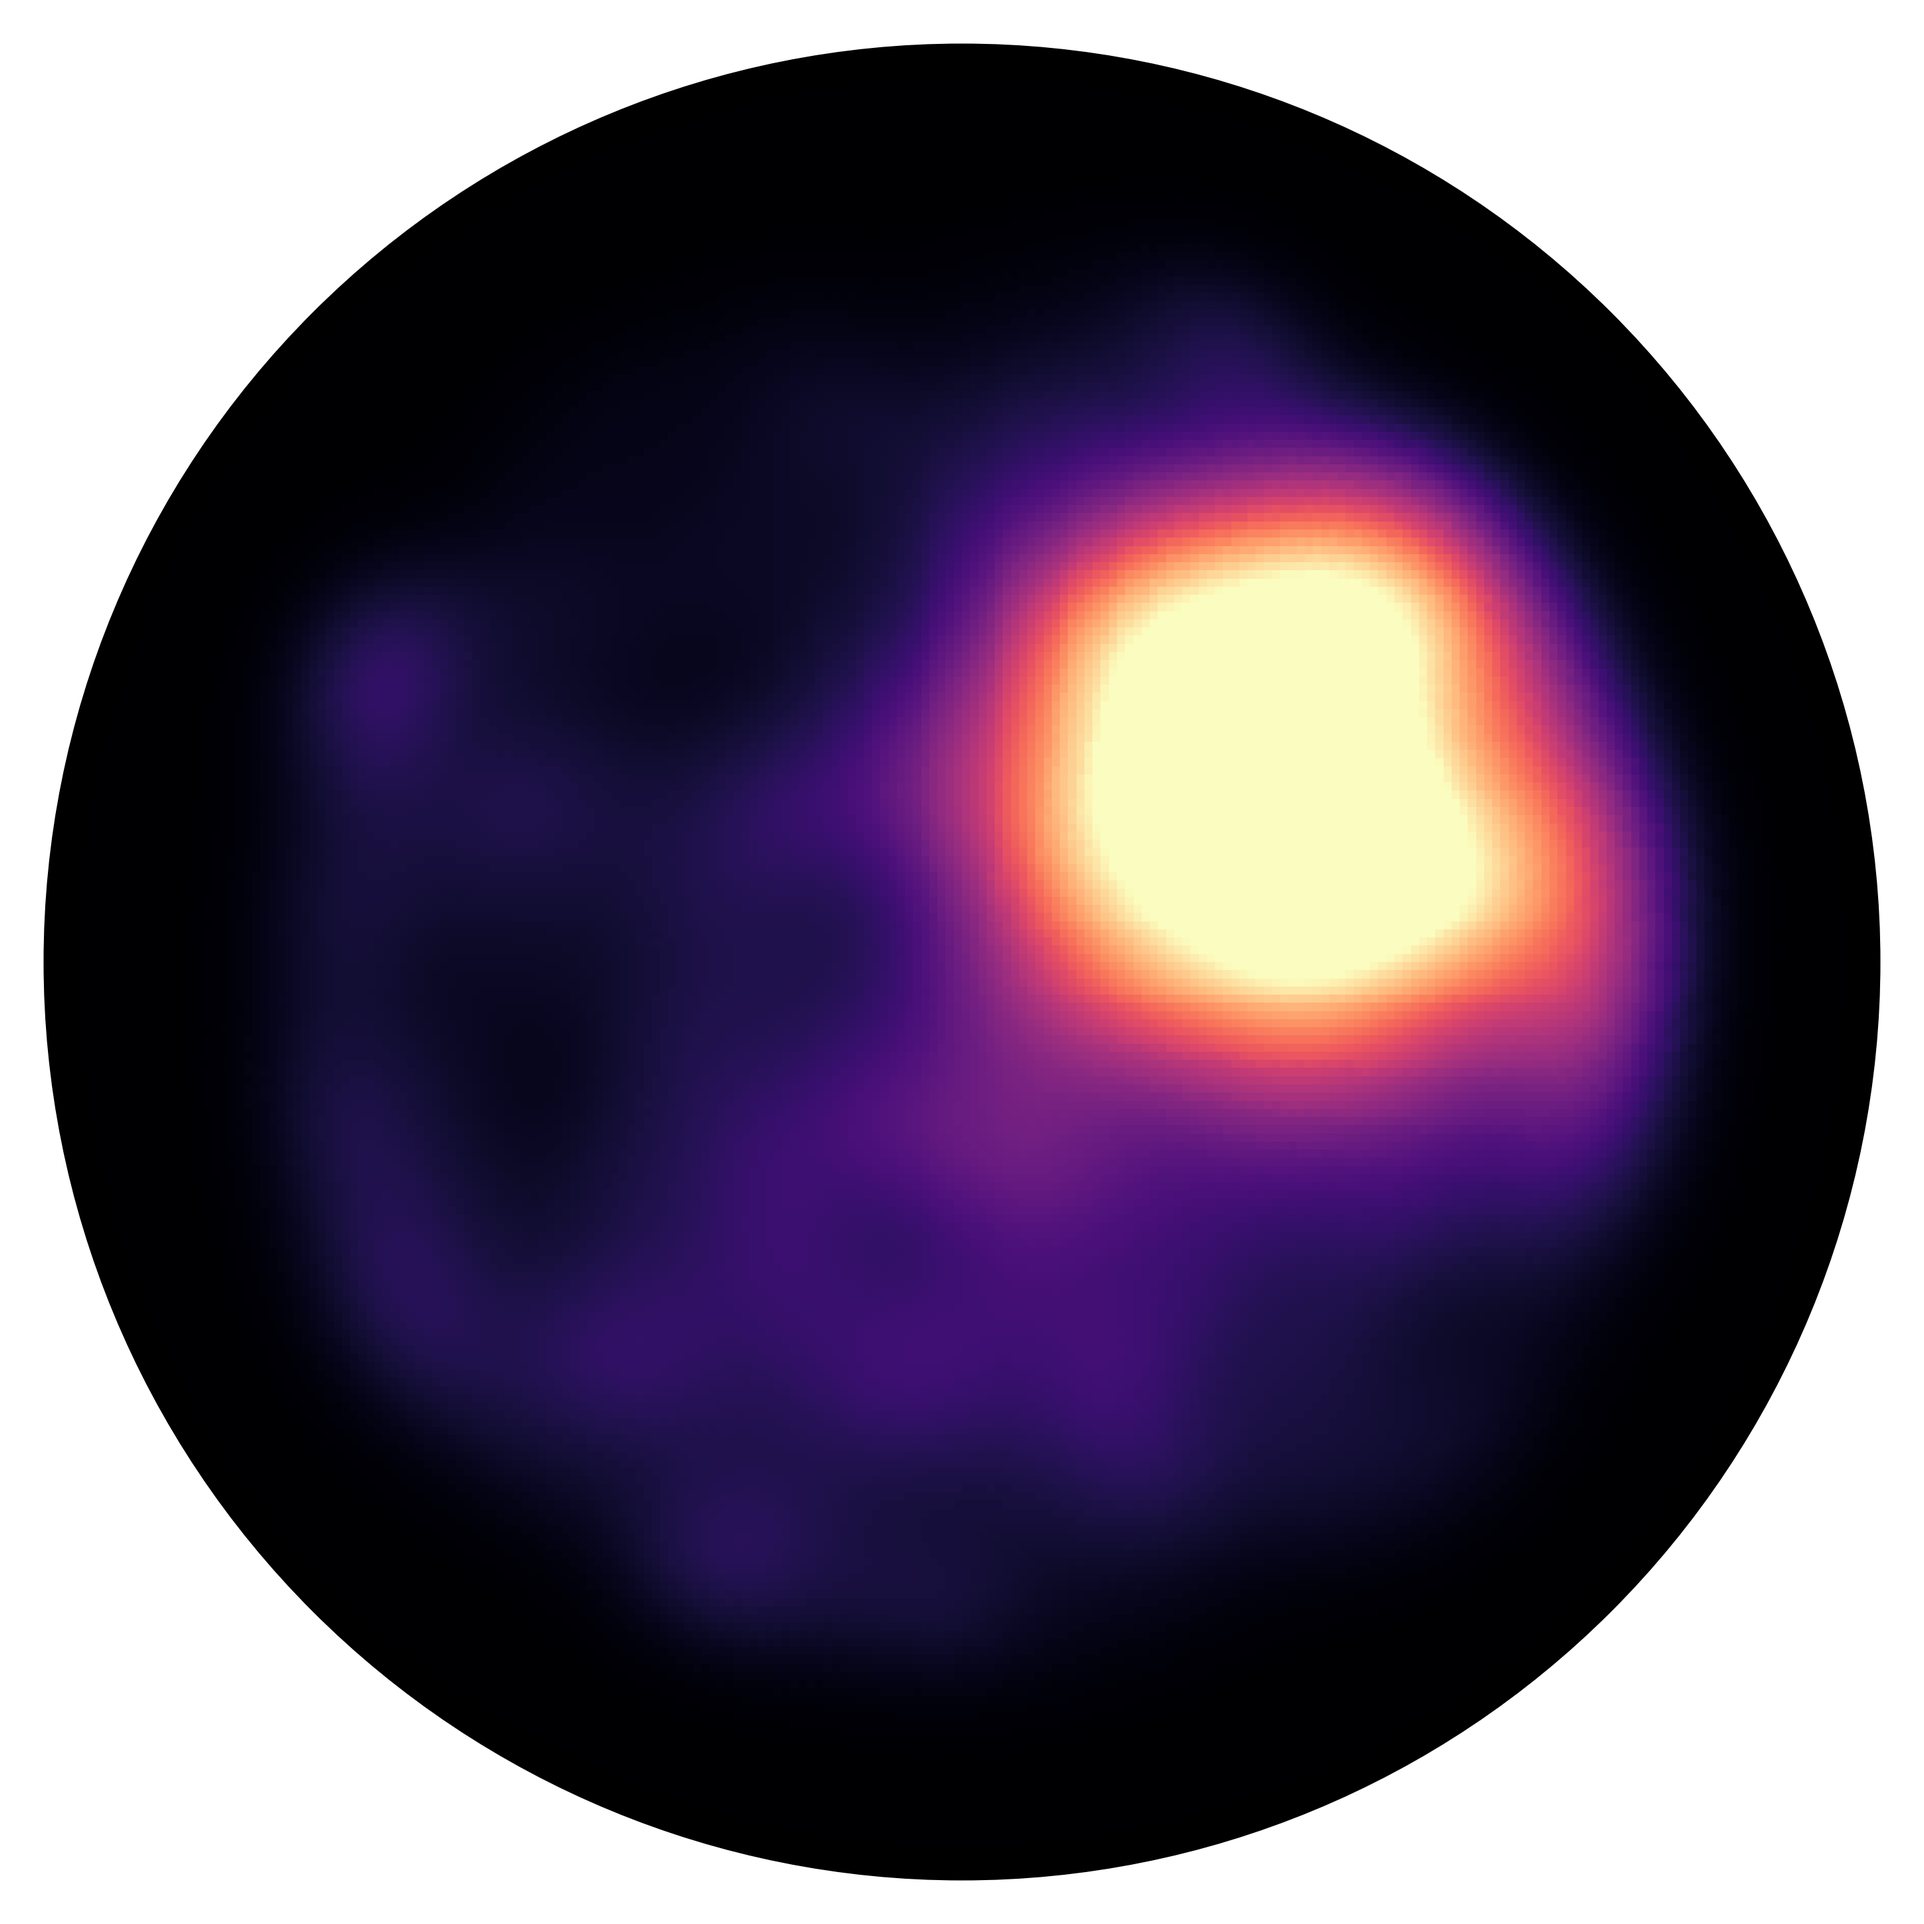
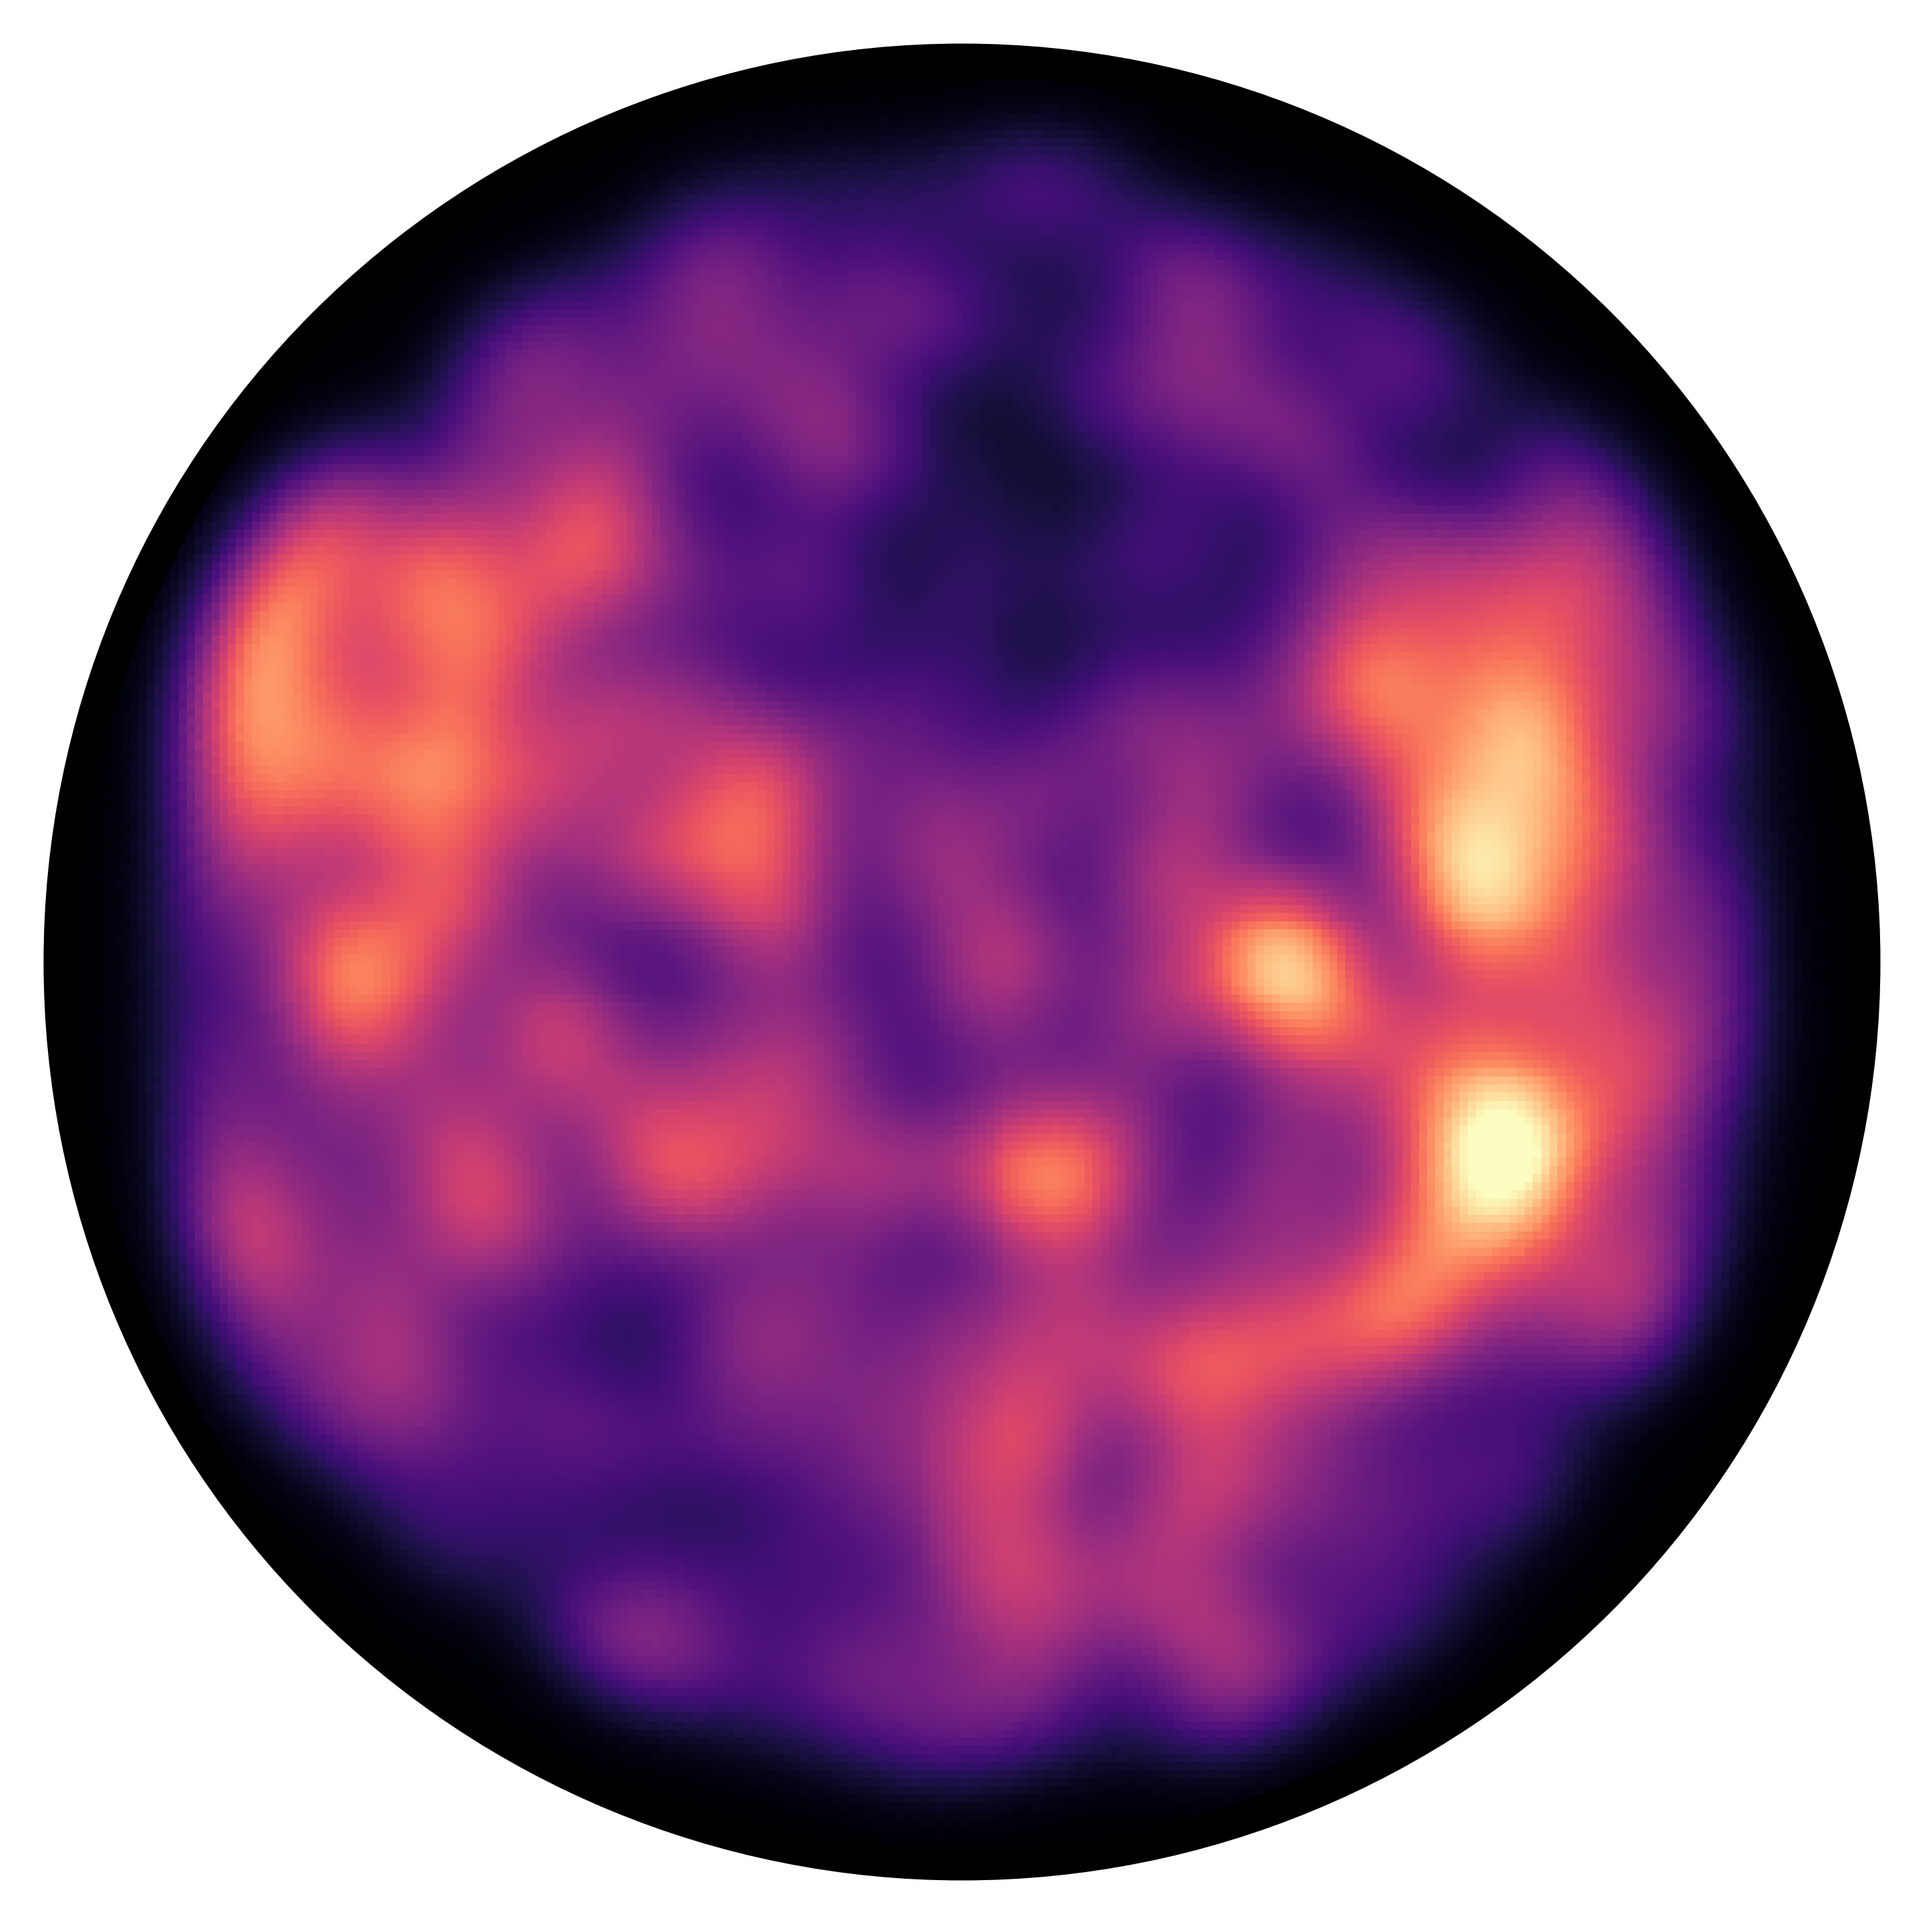
Updated scripts to make spherical projection plots

diff --git a/src/build_yx1/make_field_plots_v2.py b/src/build_yx1/make_field_plots_v2.py
@@ -18,6 +18,8 @@ from typing import Union
 from tqdm import tqdm
 from scipy.ndimage import gaussian_filter1d
 from scipy.interpolate import interp1d
+from functools import partial
+from tqdm.contrib.concurrent import process_map
 
 # ==============================================================
 #  Low-level geometry + raster helpers
@@ -115,7 +117,7 @@ def plot_healpix_equalarea_from_frame(
     cmap="viridis",
     vmin=None,
     vmax=None,
-    pct=(1, 99),
+    pct=(1, 99.8),
     smooth_fwhm_deg=None,
     fov_deg=90.0,
     rescale_to_fill=False,
@@ -142,7 +144,7 @@ def plot_healpix_equalarea_from_frame(
     img = _raster_mean(frame, ix, iy, mask_in, bins, disk_mask)
 
     # color limits
-    if vmin is None or vmax is None:
+    if  vmin is None or vmax is None:
         finite_vals = frame[np.isfinite(frame)]
         if finite_vals.size > 0:
             lo, hi = np.percentile(finite_vals, pct)
@@ -213,7 +215,65 @@ def get_intensity_bounds_from_last_frame(zarr_path, channel=0,
     lo, hi = np.percentile(finite_vals, pct)
     return lo, hi
 
+def make_well_plots(well,
+                    project_name,
+                    field_list,
+                    out_root,
+                    values_key,
+                    dt_hours,
+                    target_dt_hours,
+                    temporal_sigma_hours,
+                    interp_kind,
+                    dpi,
+                    plot_kwargs,
+                    overwrite,
+                    channel):
 
+    zarr_path = [m for m in field_list if int(re.search(r"well(\d+)", str(m)).group(1)) == well][0]
+    zarr_path = Path(zarr_path)
+    out_path = out_root / f"{project_name}_well{well:04}_{values_key}"
+    out_path.mkdir(parents=True, exist_ok=True)
+
+    series_TN = _load_time_series_1ch(zarr_path, values_key=values_key, channel=channel)
+
+    if values_key == "density":
+        N = series_TN.shape[1];
+        A = 4 * np.pi * 600 ** 2;
+        a = A / N
+        series_TN = series_TN / a
+
+    if dt_hours is None:
+        raise ValueError("Please supply dt_hours for temporal smoothing/interpolation.")
+    series_out, t_out = temporal_smooth_and_resample(
+        series_TN, dt_hours=dt_hours,
+        target_dt_hours=target_dt_hours,
+        temporal_sigma_hours=temporal_sigma_hours,
+        kind=interp_kind,
+    )
+
+    if False: #scale_from_smoothed:
+        vmin = vmax = None
+    else:
+        vmin, vmax = get_intensity_bounds_from_last_frame(
+            zarr_path, channel,
+            smooth_fwhm_deg=plot_kwargs.get("smooth_fwhm_deg"),
+            values_key=values_key, pct=(1, 99.8)
+        )
+        vmax = 0.875 * vmax
+
+    print(f"Rendering {series_out.shape[0]} frames for well {well:04d} ...")
+    for t_idx in range(series_out.shape[0]):
+        frame_file = out_path / f"{zarr_path.stem}_frame{t_idx:04d}.png"
+        if not frame_file.exists() or overwrite:
+            plot_healpix_equalarea_from_frame(
+                series_out[t_idx],
+                save_path=frame_file,
+                vmin=vmin,
+                vmax=vmax,
+                **plot_kwargs,
+                dpi=dpi,
+            )
+    print(f"✅ Saved {series_out.shape[0]} frames to {out_path}")
 # ==============================================================
 #  Main driver
 # ==============================================================
@@ -224,9 +284,7 @@ def healpix_to_mp4_v2(
     wells=None,
     values_key="max",
     channel=0,
-    fps=12,
     nside=64,
-    mode="png",
     overwrite=False,
     plot_kwargs=None,
     dpi=600,
@@ -235,7 +293,7 @@ def healpix_to_mp4_v2(
     target_dt_hours=None,
     temporal_sigma_hours=None,
     interp_kind="linear",
-    scale_from_smoothed=False,
+    n_jobs=1,
 ):
     """
     Render Healpix zarr time series with temporal smoothing/interpolation.
@@ -250,50 +308,32 @@ def healpix_to_mp4_v2(
     if wells is None:
         wells = [int(re.search(r"well(\d+)", str(s)).group(1)) for s in field_list]
 
-    for well in tqdm(wells, desc="Rendering wells"):
-        zarr_path = [m for m in field_list if int(re.search(r"well(\d+)", str(m)).group(1)) == well][0]
-        zarr_path = Path(zarr_path)
-        out_path = out_root / f"{project_name}_well{well:04}_{values_key}"
-        out_path.mkdir(parents=True, exist_ok=True)
+    plot_well = partial(make_well_plots,
+                        project_name=project_name,
+                        field_list=field_list,
+                        out_root=out_root,
+                        values_key=values_key,
+                        dt_hours=dt_hours,
+                        target_dt_hours=target_dt_hours,
+                        temporal_sigma_hours=temporal_sigma_hours,
+                        interp_kind=interp_kind,
+                        dpi=dpi,
+                        plot_kwargs=plot_kwargs,
+                        overwrite=overwrite,
+                        channel=channel)
 
-        series_TN = _load_time_series_1ch(zarr_path, values_key=values_key, channel=channel)
-
-        if values_key == "density":
-            N = series_TN.shape[1]; A = 4*np.pi*600**2; a = A/N
-            series_TN = series_TN / a
-
-        if dt_hours is None:
-            raise ValueError("Please supply dt_hours for temporal smoothing/interpolation.")
-        series_out, t_out = temporal_smooth_and_resample(
-            series_TN, dt_hours=dt_hours,
-            target_dt_hours=target_dt_hours,
-            temporal_sigma_hours=temporal_sigma_hours,
-            kind=interp_kind,
+    if n_jobs == 1:
+        _ = [plot_well(a) for a in tqdm(wells, desc="Calculating density fields")]
+    else:
+        _ = process_map(
+            plot_well,
+            wells,
+            max_workers=n_jobs,
+            chunksize=1,
+            desc="Calculating density fields",
         )
 
-        if scale_from_smoothed:
-            vmin = vmax = None
-        else:
-            vmin, vmax = get_intensity_bounds_from_last_frame(
-                zarr_path, channel,
-                smooth_fwhm_deg=plot_kwargs.get("smooth_fwhm_deg"),
-                values_key=values_key, pct=(1, 99.8)
-            )
-            vmax = 0.9 * vmax
 
-        print(f"Rendering {series_out.shape[0]} frames for well {well:04d} ...")
-        for t_idx in range(series_out.shape[0]):
-            frame_file = out_path / f"{zarr_path.stem}_frame{t_idx:04d}.png"
-            if not frame_file.exists() or overwrite:
-                plot_healpix_equalarea_from_frame(
-                    series_out[t_idx],
-                    save_path=frame_file,
-                    vmin=vmin, vmax=vmax,
-                    **plot_kwargs,
-                    dpi=dpi,
-                )
-        if mode == "png":
-            print(f"✅ Saved {series_out.shape[0]} frames to {out_path}")
 
 # ==============================================================
 #  Usage example

diff --git a/results/20251003/test_plots.py b/results/20251003/test_plots.py
@@ -6,23 +6,23 @@ from pathlib import Path
 import matplotlib
 matplotlib.use("TkAgg")   # or "TkAgg" if Qt isn't installed
 import matplotlib.pyplot as plt
-from src.build_yx1.make_field_plots import plot_healpix_equalarea_frame, get_intensity_bounds_from_last_frame
+from src.build_yx1.make_field_plots_v2 import plot_healpix_equalarea_frame, get_intensity_bounds_from_last_frame
 
 
 if __name__ == '__main__':
 
     root = "/media/nick/cluster/projects/data/killi_tracker/"
-    project_name = "20250716"
+    project_name = "20250731"
     projection_path = Path(root) / "output_data" / "sphere_projections" / project_name
     well_list = sorted(projection_path.glob("*0128.zarr"))
-    well_ind = 0
+    well_ind = 5
     well_zarr_path = well_list[well_ind]
     values_key="mean"
-    t_index=32
+    t_index=42
     channel=0
     nside=None,
 
-    sm_deg = 12
+    sm_deg = 10
     mode = "density"
 
     vmin, vmax = get_intensity_bounds_from_last_frame(
@@ -37,8 +37,8 @@ if __name__ == '__main__':
                                  values_key=mode,
                                  bins=256,
                                  vmin=vmin,
-                                 vmax=vmax * 0.8,
-                                 smooth_fwhm_deg=12, #None,
+                                 vmax=vmax * 0.85,
+                                 smooth_fwhm_deg=sm_deg, #None,
                                  fov_deg=75,
                                  rescale_to_fill=True,
                                  save_path="test.png",

diff --git a/results/20251008/make_bc1_movies.py b/results/20251008/make_bc1_movies.py
@@ -5,20 +5,20 @@ from pathlib import Path
 if __name__ == '__main__':
 
     root = Path("/media/nick/cluster/projects/data/killi_tracker/")
-    project_list = ["20250716", "20250731"]
+    project_list = ["20250621", "20250716", "20250731"]
     well_list = [None, None, None]
-    channel = [1, 1, 0]
-    dt_vec = [73/60, 68/60]
+    channel = [0, 0, 0]
+    dt_vec = [47/60, 73/60, 68/60]
     dt_target = 0.75
-    proj_mode = "density" #"mean"
+    proj_mode = "mean" #"mean"
     overwrite = True
     nside = 128
     sigma_t = 0.75
-    sigma_deg = 10
-    deg_vec = [60, 72]
-    n_workers = 10
+    sigma_deg = 8
+    deg_vec = [65, 60, 75]
+    n_workers = 8
 
-    for p, proj in enumerate(project_list):
+    for p, proj in enumerate(project_list[:-1]):
         healpix_to_mp4_v2(
             root=root,
             project_name=proj,
@@ -34,7 +34,7 @@ if __name__ == '__main__':
             temporal_sigma_hours=sigma_t,
             plot_kwargs=dict(
                 bins=256,
-                cmap="magma",
+                cmap="turbo",
                 hemisphere="south",
                 fov_deg=deg_vec[p],
                 smooth_fwhm_deg=sigma_deg,
